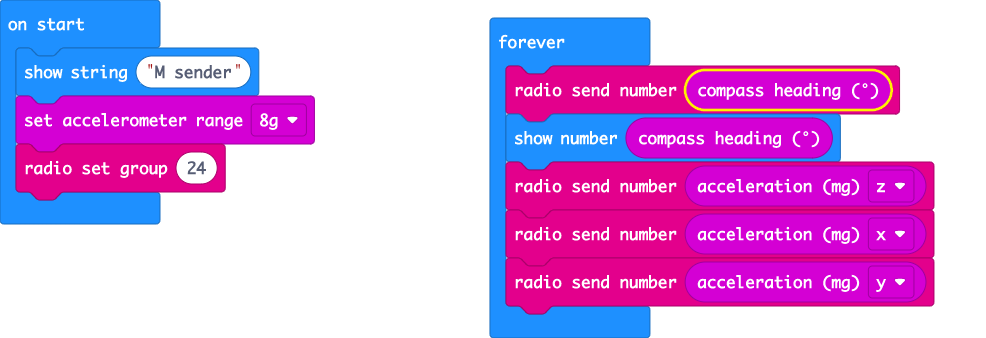
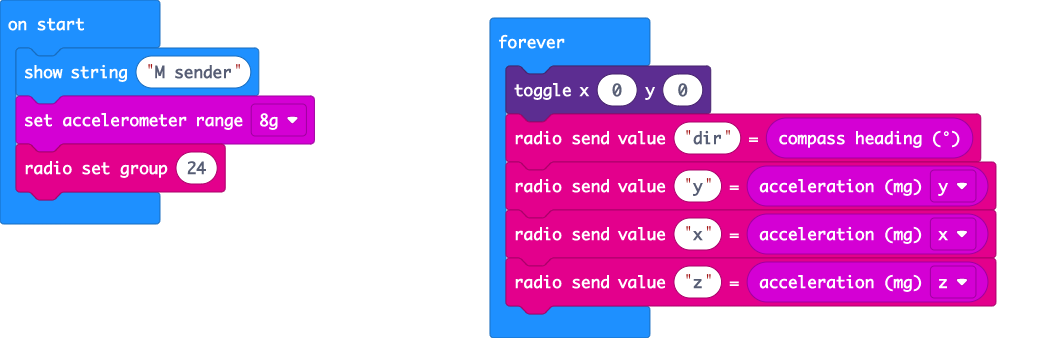
Update main.blocks, main.ts

diff --git a/main.ts b/main.ts
@@ -2,9 +2,9 @@ basic.showString("M sender")
 input.setAccelerometerRange(AcceleratorRange.EightG)
 radio.setGroup(24)
 basic.forever(function () {
-    radio.sendNumber(input.compassHeading())
-    basic.showNumber(input.compassHeading())
-    radio.sendNumber(input.acceleration(Dimension.Z))
-    radio.sendNumber(input.acceleration(Dimension.X))
-    radio.sendNumber(input.acceleration(Dimension.Y))
+    led.toggle(0, 0)
+    radio.sendValue("dir", input.compassHeading())
+    radio.sendValue("y", input.acceleration(Dimension.Y))
+    radio.sendValue("x", input.acceleration(Dimension.X))
+    radio.sendValue("z", input.acceleration(Dimension.Z))
 })
